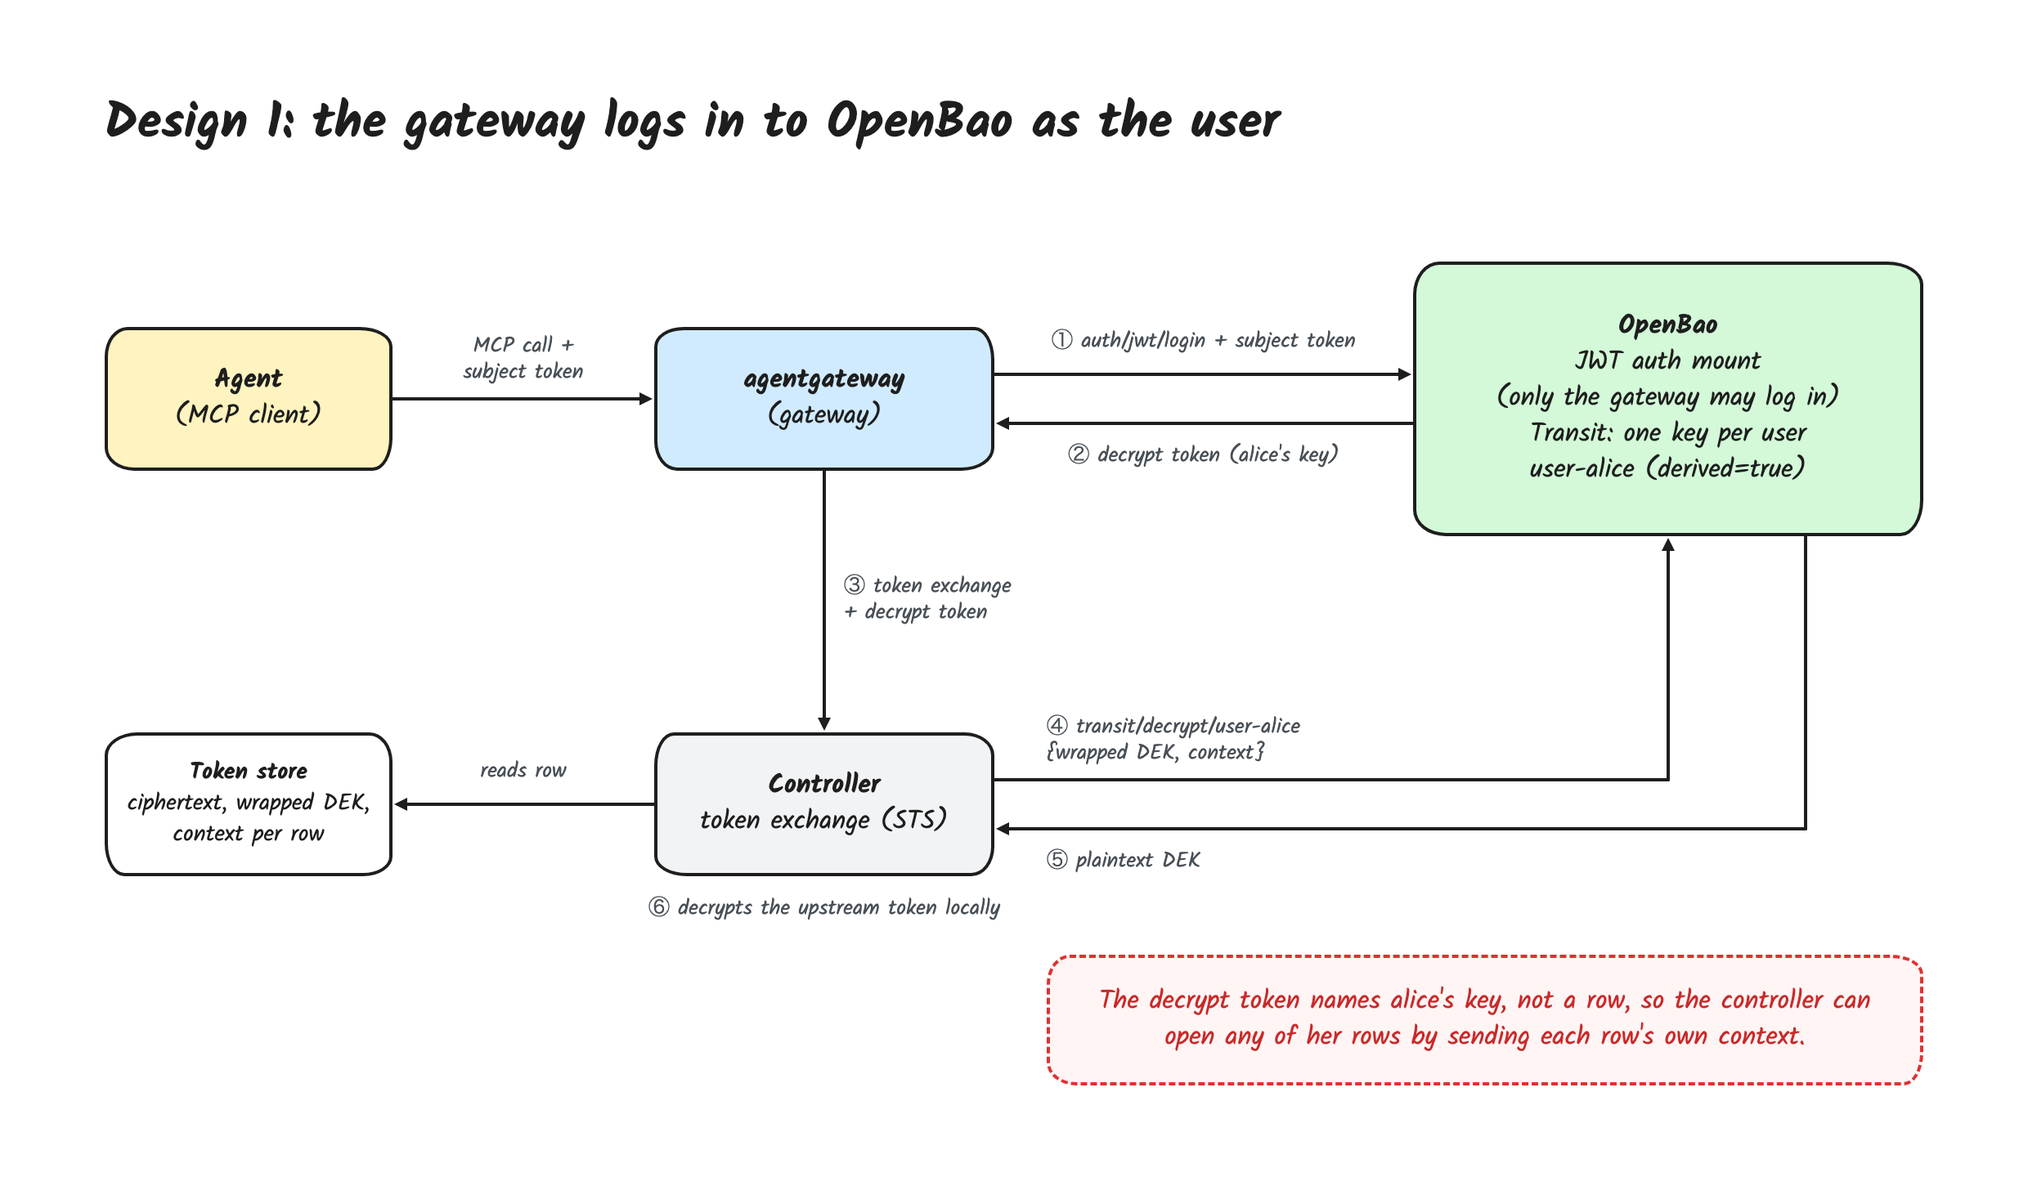
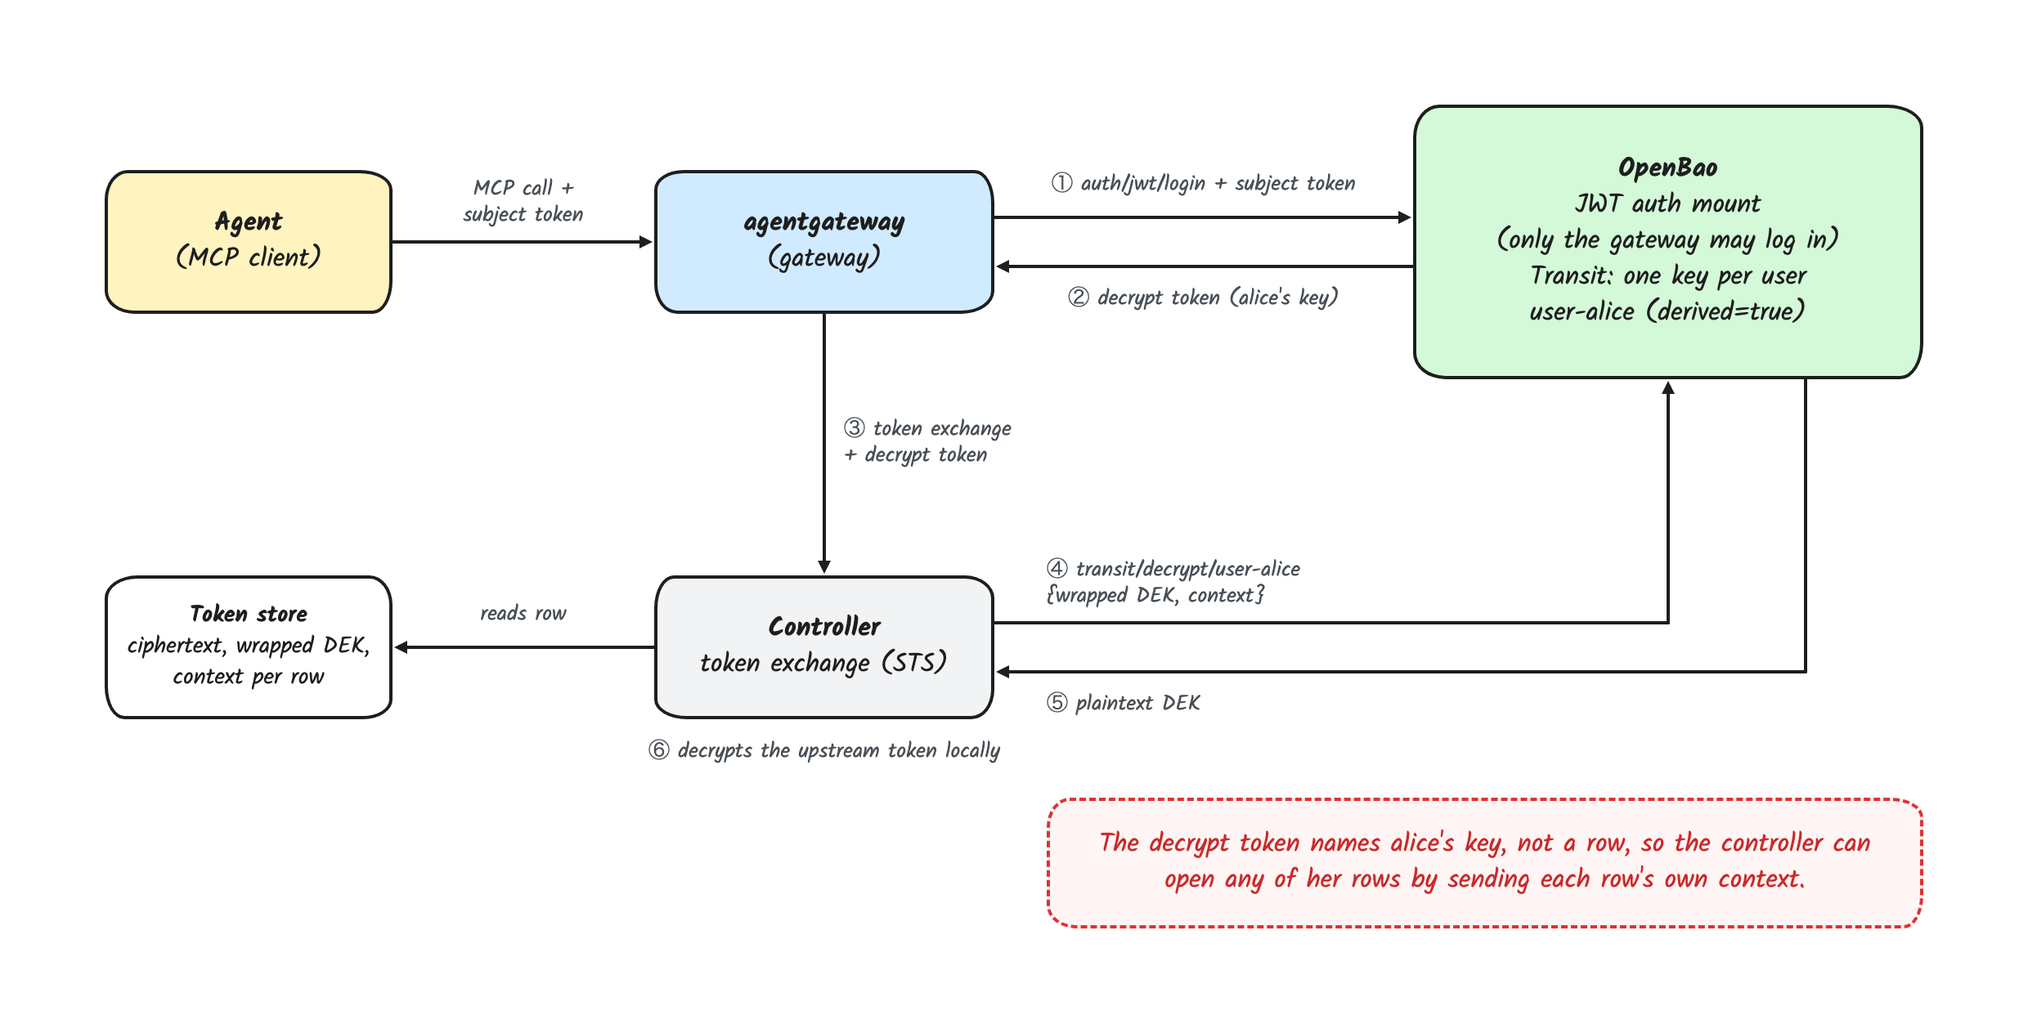
Publish part 3 of credential brokering (hidden)
Re-date part 3 to 2026-10-27, rebuild Design 2 on OpenBao control
groups, and re-export the part 3 diagrams. The post stays hidden and
out of the sitemap.

diff --git a/_posts/2026-10-27-credential-brokering-patterns-for-ai-agent-egress-part3.md b/_posts/2026-10-27-credential-brokering-patterns-for-ai-agent-egress-part3.md
@@ -1,0 +1,148 @@
+---
+
+title: "Credential Brokering Patterns for AI Agents Part 3: Protecting the Token Vault with OpenBAO"
+date: 2026-10-27T09:00:00-07:00
+categories: [AI Agents, Identity]
+hidden: true
+sitemap: false
+tags: [agentgateway, mcp, vault, openbao, credential-broker, enterprise]
+description: Parts 2 and 2.5 built broker-gated envelope encryption for agentgateway's token store on AWS KMS. Lots of orgs can't or won't put that key in a hyperscaler, so here are two ways to run Mode 3 on Vault/OpenBao, side by side, what each one costs you, and how I'd pick between them.
+---
+
+![CB4A Flow](/images/cb4a/cb4a-part2.gif)
+
+In [part 1](/credential-brokering-patterns-for-ai-agent-egress/) I looked at the [Credential Broker 4 Agents (CB4A)](https://datatracker.ietf.org/doc/html/draft-hartman-credential-broker-4-agents-00) draft and argued that the agent should never hold a credential at all, and that a proxy (in our case [agentgateway](https://agentgateway.dev)) should exchange the user's identity for the upstream token on the live request. That means the proxy's token vault holds every user's GitHub token, Slack token, etc. In [part 2](/credential-brokering-patterns-for-ai-agent-egress-part2/) I asked how much of the store an attacker can read **when the process holding the token store is fully compromised**.
+
+But part 2 and [part 2.5](/credential-brokering-mode-3-at-scale/) was built around AWS KMS, and a lot of the organizations that care most about credential concentration can't, or won't, put the key that guards every user's credentials in a hyperscaler's hands.
+
+So why Vault/[OpenBao](https://openbao.org/)? Some of it is "sovereignty" and "hold your own key" buzzwords, but a few concrete reasons keep coming up.
+
+- **Where you run.** On-prem, air-gapped, or a sovereign/regional cloud where AWS KMS isn't an option.
+- **Multi-cloud.** One key service, one policy model, and one audit trail across AWS/Azure/GCP/on-prem.
+- **What you already run.** A Vault/OpenBao cluster with a team, a policy review process, and an audit pipeline, which a new token store should plug into.
+- **Custody.** You hold the KEK, you can read the source, and the authorization config lives in git.
+
+I'll use OpenBao (the community fork after HashiCorp [moved Vault to the BSL](https://www.hashicorp.com/en/blog/hashicorp-adopts-business-source-license) in 2023) but it applies to Vault too.
+
+There are two reasonable ways to do "Mode 3" on OpenBao with agentgateway. Either let the gateway log in to OpenBao as the user, or keep the broker from part 2 and point it at OpenBao (I'm calling that Mode 3b). I don't think either one wins outright. The vault login is simpler, but the decrypt token it hands out is scoped to the user, so a live request for one of alice's credentials can open whichever of them the controller picks. The broker scopes each decrypt to the one row the request is for, and you pay for that with another component on the request path.
+
+## Who holds what, quickly
+
+Every mode in this series comes down to who holds the key and what has to say yes before a decrypt happens. Envelope encryption is the foundation. A per-row DEK encrypts the token payload and the KEK only wraps and unwraps DEKs, so the KEK can live somewhere the controller can't reach. Mode 3 then takes the "yes" away from the controller, so reading one credential needs the ciphertext from the controller and a yes from the broker for that one row (a KMS grant in part 2).
+
+| Role                                    | Holds                                                                              | Never holds                         |
+| --------------------------------------- | ---------------------------------------------------------------------------------- | ----------------------------------- |
+| **ciphertext holder** (controller)      | the encrypted rows                                                                 | any decrypt it can run on its own   |
+| **user verifier + authorizer** (broker) | the yes on each decrypt (a grant on KMS, an approval on OpenBao), IdP JWKS, policy, the owner-HMAC key | ciphertext, DB, DEKs |
+| **key custodian** (KMS / OpenBao)       | the KEK                                                                            | application data                    |
+
+The key custodian is whatever holds the KEK and does the unwrap, KMS in part 2 and OpenBao Transit here. The two designs in this post differ on who plays the "user verifier + authorizer" role, ie, who checks the user's subject token and then says "yes" to a decrypt. In Design 1 that "yes" is a short-lived OpenBao token (which I'll call the decrypt token), and in Design 2 it's an approval of one specific decrypt request.
+
+In **Design 1 (vault login)** there's no broker, and OpenBao plays both the user verifier + authorizer role and the key custodian role. On each live request the gateway calls OpenBao's `auth/jwt/login` with the user's subject token, OpenBao verifies it against the IdP and returns the decrypt token, and the gateway passes it to the controller. Since the gateway is the only thing allowed to call that login, a decrypt token only exists while a real request is in flight.
+
+In **Design 2 (Mode 3b, broker)** the broker from part 2 keeps the user verifier + authorizer role, but it doesn't mint anything. The controller asks OpenBao for the decrypt, OpenBao holds the request instead of running it, and the broker checks the subject token and approves that one request, so OpenBao only plays key custodian.
+
+Both designs keep the ciphertext in the application database. 
+
+## Design 1: let the gateway log in as the user
+
+This design starts from the fact that the broker only exists because KMS can't authenticate the end user (it only ever sees the controller's IAM role), but OpenBao's JWT auth method *can*. So let OpenBao verify the user directly, and the broker's authorize step becomes a built-in, audited, fail-closed auth mount with no custom code. [Mesut Özdil](https://github.com/moezdil) sent me this design as a [working demo](https://github.com/moezdil/openbao-credential-broker-demo) shortly after part 2, and a lot of it holds up (in a few places, e.g. token TTL, rewrap, and fail-closed audit, it's better than what we built on KMS).
+
+On a live request, the gateway logs in to OpenBao with the user's subject token, and OpenBao verifies it against the IdP JWKS and returns a short-lived OpenBao token whose policy is templated to that user's Transit key. That token carries no key material, just permission to call Transit. Each user has their own Transit key (created with `derived=true`), and each row's `context` derives a different subkey from it, so a wrapped DEK only unwraps with its own row's context. The gateway hands it to the controller, which sends the row's wrapped DEK and `context` to `transit/decrypt`, gets back the plaintext DEK, and decrypts the upstream token locally, so OpenBao never sees the credential itself.
+
+![Design 1: the gateway logs in to OpenBao as the user](/images/cb4a/part3-design1.png)
+
+So who gets to call `auth/jwt/login`? That's the first thing to get right. Vault auth assumes a human is present, and in agent egress the user may well be asleep while a machine replays their token, so the identity is real but nothing in the token says a request is actually happening. The controller has to hold the subject token (it's the [RFC 8693](https://www.rfc-editor.org/rfc/rfc8693) token-exchange input), so if it can reach the login path, a compromised controller can do this.
+
+```
+t=0      alice makes a real MCP call. The compromised controller keeps her subject JWT.
+t=+40m   no traffic anywhere. Controller calls auth/jwt/login with the stored JWT.
+         OpenBao: signature ok, exp ok, aud ok. Here is your token.
+         Controller decrypts using ciphertext and context from its own database.
+         Repeat for every JWT it harvested this hour.
+```
+
+Every check passed exactly the way it's supposed to, and liveness went from a 30-second single-use proof to about an hour of replay. `token_bound_cidrs` doesn't help, since it pins where the token is *used*. What does help is letting only the gateway call `auth/jwt/login` (over mTLS, every other caller denied), so the only OpenBao tokens the controller ever sees are the ones the gateway hands it during a live request.
+
+With the login path locked down, this is a good design. There's no broker to run or compromise, nothing writes OpenBao policy at runtime, and every authorization rule is OpenBao config your Vault team can review in git.
+
+So what does the login actually return? A token scoped to the user, since the subject token says who and nothing in it says which of that user's credentials the request is for. The per-row subkeys don't help here, because the `context` isn't a secret (it sits in the controller's database next to the wrapped DEK). The controller can send any of alice's rows with that row's own matching context, and the policy, which only names her key, lets it through. You can cap how much one token opens, though. Set `token_num_uses=1` on the JWT role and leave `batch_input` out of the decrypt path's `allowed_parameters` (Mesut's demo does both), and one live request gets at most one row, but the controller still picks which one, so an attacker spends each of alice's live requests on her most valuable credential.
+
+Part 2 promised to protect "this user's other credentials," and this design weakens that on a live request. Can you push the row into the login? Not really, since the gateway doesn't know the `elicitation_id` and `bound_claims` only matches static values in the JWT. 
+
+Design 1 also loses the per-request checks the broker did in part 2, ie, CEL rules over which resource, audience, and action a request is for (or how fast a user is pulling credentials), honeytoken rows that alert when someone asks for a decoy, and a log of *why* a decrypt was denied. `auth/jwt/login` only checks static claims in the JWT, so it never sees any of that request context ([Sentinel](https://developer.hashicorp.com/vault/docs/enterprise/sentinel) could, but OpenBao doesn't have it). If you want those checks, you build them into the gateway before it calls the login, and the gateway is the most exposed component we have, so a compromised gateway takes the checks down with it.
+
+**A vault login gets you liveness if only the gateway can reach it, but even capped at one use, the token it gets back opens whichever of that user's credentials the controller picks.** How much that matters depends on how many upstreams your users connect and how valuable the ones a request *wasn't* for are.
+
+## Design 2: keep the broker and point it at OpenBao (Mode 3b)
+
+Mode 3b keeps the broker from part 2 and leaves OpenBao as only the key custodian, but on OpenBao the broker doesn't mint anything. The controller asks OpenBao for the decrypt itself, OpenBao holds that request instead of running it, and the broker either approves it or lets it expire. Before it approves, the broker verifies the user's subject token (signed by the IdP) and the gateway's freshness proof (SVID-signed, single-use `jti`, about a 30-second `exp`, bound to the resource and a hash of the subject), computes `owner` from the subject, runs CEL, and then checks that the request OpenBao is holding is for exactly the row this live request is about.
+
+![Design 2 (Mode 3b): the broker approves one row's decrypt](/images/cb4a/part3-mode3b.png)
+
+Compared to Design 1, that's two changes, and they're independent of each other even though they're easy to conflate.
+
+1. **OpenBao trusts nothing external.** There's no JWT auth mount at all, so harvested subject tokens are worthless at OpenBao, and the only way a decrypt runs is a broker approval of that specific request.
+2. **Approval is per-row.** The broker approves OpenBao's own copy of one request, which names one user's key and one row's `context`, and since only the controller knows the `elicitation_id`, that request has to start at the controller.
+
+The broker is also the natural place to add the agent's identity (e.g. its [SPIFFE](https://spiffe.io/) SVID) to CEL. Have the broker verify the agent's JWT-SVID itself though, since an agent ID the gateway copies into its own proof is just the gateway's word.
+
+### How do you scope a decrypt to one row?
+
+In part 2, we used a KMS grant to scope decrypt access to a "per-row" action. In OpenBao, ACL is static `(path, parameters, capabilities)` config, and the only dynamic part is which policy *names* get attached to a token. A great feature added in OpenBao [2.7.0](https://openbao.org/docs/release-notes/2-7-0/), is [control groups](https://openbao.org/docs/concepts/control-groups/). A `control_group` on a policy path means a request to that path doesn't run _until some other identity approves it_, and you name who can approve in the policy (an OpenBao identity group, which in our case has exactly one member, the broker). So what happens to the request while it waits? OpenBao doesn't run it, it stores a copy and hands the caller a [wrapping token](https://openbao.org/docs/concepts/response-wrapping/) instead of a result. Normally a wrapping token is how OpenBao hands you a response sealed inside a short-lived token that you "unwrap" to read, but here there's no response yet, so think of it as a claim ticket for a request that hasn't run. Like every OpenBao token it also has an accessor, which is an ID other components can use to refer to the token without being able to use it.
+
+In our design, the controller sends the broker the accessor (plus the subject token and the gateway's proof), the broker looks up the stored request by that accessor with `sys/control-group/request`, which returns the path and the exact parameters the controller sent, and if it checks out the broker approves it with `sys/control-group/authorize`. Then the controller calls `sys/wrapping/unwrap` with its wrapping token, and that's when OpenBao actually runs the decrypt and returns the result. Unwrap before the approval and you get an error, and if nobody approves before the control group's `ttl`, the request just expires. That gets you per-request scoping without anything writing OpenBao config at runtime, so the controller gets a static policy on Transit with its decrypt path gated on the broker.
+
+![Control groups: the decrypt waits for the broker](/images/cb4a/part3-control-groups.png)
+
+```hcl
+# controller policy (static, in git)
+path "transit/decrypt/user-*" {                  # Transit key: one per user, derived=true
+  capabilities       = ["update"]
+  allowed_parameters = { "ciphertext" = [], "context" = [] }   # no batch_input
+  control_group = {
+    ttl               = "30s"
+    self_auth_allowed = false
+    factor "broker" {
+      controlled_capabilities = ["update"]
+      identity {
+        group_names = ["cb4a-broker"]
+        approvals   = 1
+      }
+    }
+  }
+}
+```
+
+The broker logs in with its SVID (e.g. cert auth) as an entity in the `cb4a-broker` group, and its whole policy is `update` on `sys/control-group/request` and `sys/control-group/authorize`. It has no Transit path, it can't mint tokens, and it can't write policy. When it reviews a held request, OpenBao returns its stored copy of exactly what the controller sent (the [`request_data`](https://github.com/openbao/openbao/pull/3601) field carries the original parameters):
+
+```json
+{
+  "approved": false,
+  "request_operation": "update",
+  "request_path": "transit/decrypt/user-9f2c8a...",
+  "request_data": {
+    "ciphertext": "vault:v1:QhMy...",
+    "context": "<b64 of owner, resource, elicitation_id>"
+  },
+  "authorizations": []
+}
+```
+
+The broker computes the `context` it expects from things it verified itself (`owner` from the subject token, `resource` from the gateway's proof, plus the `elicitation_id` the controller named) and approves only if `request_path` is that user's key and `request_data.context` matches. So Mode 3's two independent checks still hold. The ciphertext is bound to the row at wrap time (`derived=true` plus a per-row `context` HKDF-derives a different subkey, where KMS uses `EncryptionContext` as AAD), and the caller is bound to the row at approval time (the broker's `context` check, where KMS uses `EncryptionContextSubset`). Send some other ciphertext with this row's context and the broker approves, but derivation fails when the decrypt runs, and send another row's ciphertext with its own context and the broker never approves it.
+
+Nobody in this design holds a standing decrypt. The controller can only propose one, and the broker can only approve what the controller already asked for (it only ever sees the accessor, never the wrapping token), so a compromised broker on its own decrypts nothing, and a compromised controller on its own gets nothing approved without a live proof from the gateway. That's a better spot than either KMS variant, where part 2's broker holds `CreateGrant` and part 2.5's holds `kms:Decrypt`. There's also no per-row state in OpenBao, since the only state is the held request, and it expires with the `ttl`.
+
+## The two side by side
+
+Both designs stop a compromised controller from mass-decrypting the store, and in both a decrypt only happens during a live request through the gateway. The difference is scope and cost. In Design 1 a decrypt token opens one of the user's credentials of the controller's choosing (or all of them without `token_num_uses=1`), request-context policy (CEL, honeytokens, a decision log) lives in the gateway or nowhere, and the whole thing is OpenBao config with no broker to run. In Mode 3b the broker approves one row's decrypt at a time, that policy lives in a broker the gateway doesn't control, and nothing (not the controller, not the broker) holds a decrypt it can run on its own. You pay for it with another component on the request path, four OpenBao calls per decrypt instead of two, and a dependency on control groups, which are a couple months old.
+
+## Is there a Part 4?
+
+The port works, and it works two ways. OpenBao can be the key custodian with the same three roles and the same two independent checks, so if you're on-prem or on a sovereign cloud because you're worried about credential concentration, you can get the same prevent-not-detect property against a compromised token store.
+
+Which design comes down to how far you want one live request to reach. If per-row scoping matters for your users, run the broker as an approver on OpenBao 2.7 control groups, keep its policy to `sys/control-group/*`, and install no JWT auth mount (and don't give the broker policy-write anywhere in OpenBao, since that turns it into an effective admin). If you're on Vault or can't run OpenBao 2.7 yet, port the broker-unwrap variant from [part 2.5](/credential-brokering-mode-3-at-scale/) instead (the broker gets a static `transit/decrypt/user-*` policy, computes the `context` itself, and hands back the DEK), and accept that the broker holds a standing decrypt like it does on KMS. If per-row scoping doesn't matter, start with the vault login and lock the login path down. Either way, ship the audit log somewhere none of your components can reach.
+
+The last question that I'll be investigating is: can we still do better? We are still trying to solve for "if the component that holds the token vault gets compromised, what is the blast radius"? Separating out the components that encrypt/decrypt and attaching to liveness/user/identity/policy checks follows the CB4A paper. But the fact is, if the gateway gets compromised, we still have a dwell/trickle blas radius. If we can just piggy back on that, and make THAT the blast radius for everything, maybe we can improve the design. 
+
+Thanks to [Mesut Özdil](https://github.com/moezdil) for the [OpenBao demo](https://github.com/moezdil/openbao-credential-broker-demo) and review feedback. Discussing it in detail is what produced most of this post, the vault-login design is his suggestion, and he's the one who broke the per-row policy approach and pointed at control groups. If you're working through credential isolation for agent egress on Vault/OpenBao in your own stack, or you think I've weighed the two designs wrong, [connect on LinkedIn](https://linkedin.com/in/ceposta) and tell me!!
